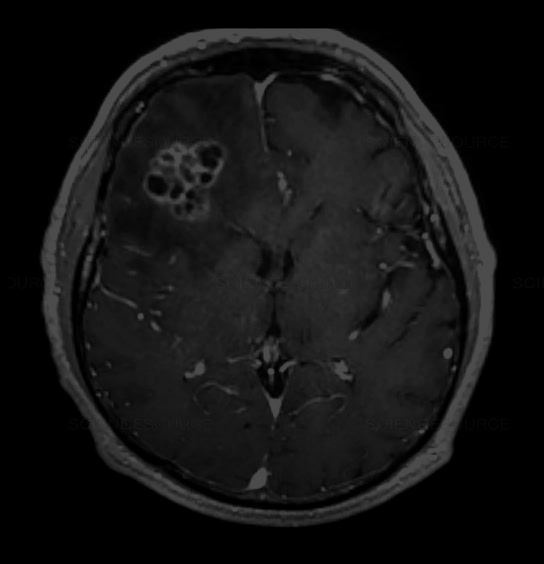
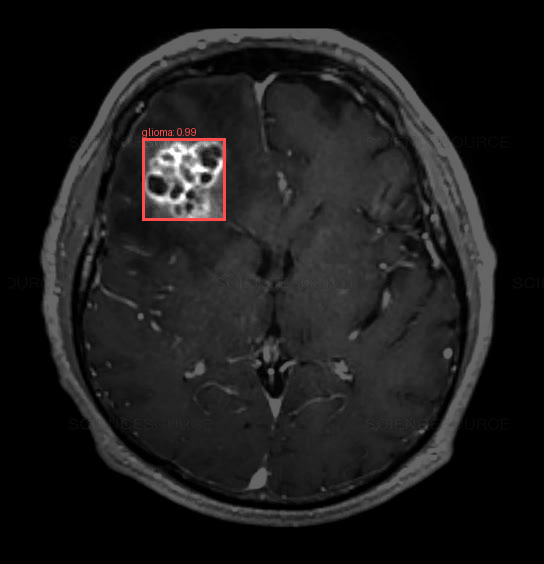
built a UI

diff --git a/UI.py b/UI.py
@@ -1,0 +1,190 @@
+import os
+import tkinter as tk
+from tkinter import ttk, filedialog
+import torch
+import torchvision
+from torchvision.transforms import functional as F
+from PIL import Image, ImageDraw, ImageTk
+
+# --- CONFIGURATION & MODEL SETUP ---
+MODEL_PATH = "models/bt_fasterrcnn_best.pth"
+NUM_CLASSES = 4
+CLASS_NAMES = {0: "background", 1: "glioma", 2: "meningioma", 3: "pituitary"}
+COLOR_MAP = {
+    1: "#FF4D4D",  # Red - Glioma
+    2: "#2ECC71",  # Green - Meningioma
+    3: "#3498DB"   # Blue - Pituitary
+}
+THRESHOLD = 0.5
+
+def load_model(checkpoint_path, num_classes):
+    device = 'cuda' if torch.cuda.is_available() else 'cpu'
+    model = torchvision.models.detection.fasterrcnn_resnet50_fpn(weights=None, min_size=480, max_size=640)
+    in_features = model.roi_heads.box_predictor.cls_score.in_features
+    model.roi_heads.box_predictor = torchvision.models.detection.faster_rcnn.FastRCNNPredictor(in_features, num_classes)
+    
+    if os.path.exists(checkpoint_path):
+        model.load_state_dict(torch.load(checkpoint_path, map_location=device))
+        print(f"Loaded weights from {checkpoint_path}")
+    else:
+        print(f"Warning: {checkpoint_path} not found!")
+        
+    model.to(device)
+    model.eval()
+    return model
+
+# Initialize model
+device = 'cuda' if torch.cuda.is_available() else 'cpu'
+model = load_model(MODEL_PATH, NUM_CLASSES)
+
+# --- GUI APPLICATION CLASS ---
+class BrainTumorDetectorApp:
+    def __init__(self, root):
+        self.root = root
+        self.root.title("Brain Tumor Detection Studio")
+        self.root.geometry("1100x700")
+        self.root.configure(bg="#1E1E2E")  # Dark theme background
+
+        self.setup_styles()
+        self.create_widgets()
+
+    def setup_styles(self):
+        self.style = ttk.Style()
+        self.style.theme_use('clam')
+        
+        # Configure modern dark mode styles
+        self.style.configure("TFrame", background="#1E1E2E")
+        self.style.configure("Card.TFrame", background="#2B2B3B", relief="flat")
+        self.style.configure("TLabel", background="#1E1E2E", foreground="#D9E0EE", font=("Segoe UI", 10))
+        self.style.configure("Header.TLabel", font=("Segoe UI", 16, "bold"), foreground="#F5E0DC", background="#1E1E2E")
+        self.style.configure("SubHeader.TLabel", font=("Segoe UI", 11, "bold"), foreground="#CBA6F7", background="#2B2B3B")
+        self.style.configure("Status.TLabel", font=("Segoe UI", 10, "italic"), foreground="#A6ADC8", background="#1E1E2E")
+        
+        self.style.configure("Accent.TButton", 
+                             font=("Segoe UI", 10, "bold"), 
+                             background="#89B4FA", 
+                             foreground="#11111B", 
+                             borderwidth=0, 
+                             padding=8)
+        self.style.map("Accent.TButton", background=[("active", "#B4BEFE")])
+
+    def create_widgets(self):
+        # Header Area
+        header_frame = ttk.Frame(self.root)
+        header_frame.pack(fill="x", padx=20, pady=15)
+        
+        title_label = ttk.Label(header_frame, text="Brain Tumor Detection Inference", style="Header.TLabel")
+        title_label.pack(side="left")
+
+        btn_select = ttk.Button(header_frame, text="Select Image", style="Accent.TButton", command=self.process_image)
+        btn_select.pack(side="right")
+
+        # Main Workspace Split Pane
+        workspace = ttk.Frame(self.root)
+        workspace.pack(fill="both", expand=True, padx=20, pady=10)
+
+        # Left Panel (Original Input)
+        left_card = ttk.Frame(workspace, style="Card.TFrame")
+        left_card.pack(side="left", fill="both", expand=True, padx=(0, 10))
+
+        lbl_left_title = ttk.Label(left_card, text="Original Image", style="SubHeader.TLabel")
+        lbl_left_title.pack(anchor="w", padx=15, pady=10)
+
+        self.left_canvas = tk.Label(left_card, bg="#2B2B3B", text="No image selected", fg="#6C7086")
+        self.left_canvas.pack(fill="both", expand=True, padx=15, pady=(0, 15))
+
+        # Right Panel (Detection Result)
+        right_card = ttk.Frame(workspace, style="Card.TFrame")
+        right_card.pack(side="right", fill="both", expand=True, padx=(10, 0))
+
+        lbl_right_title = ttk.Label(right_card, text="Detection Output", style="SubHeader.TLabel")
+        lbl_right_title.pack(anchor="w", padx=15, pady=10)
+
+        self.right_canvas = tk.Label(right_card, bg="#2B2B3B", text="Output will appear here", fg="#6C7086")
+        self.right_canvas.pack(fill="both", expand=True, padx=15, pady=(0, 15))
+
+        # Status Bar Footer
+        self.status_var = tk.StringVar(value="Ready. Click 'Select Image' to choose an MRI scan.")
+        status_bar = ttk.Label(self.root, textvariable=self.status_var, style="Status.TLabel")
+        status_bar.pack(side="bottom", fill="x", padx=20, pady=10)
+
+    def process_image(self):
+        # Open file dialog starting in the images folder
+        initial_dir = "images" if os.path.exists("images") else "."
+        file_path = filedialog.askopenfilename(
+            initialdir=initial_dir,
+            title="Select MRI Image",
+            filetypes=[("Image Files", "*.jpg *.png *.jpeg *.bmp")]
+        )
+
+        if not file_path:
+            return
+
+        self.status_var.set("Running model inference...")
+        self.root.update_idletasks()
+
+        # Load & Run Inference
+        raw_img = Image.open(file_path).convert("RGB")
+        img_tensor = F.to_tensor(raw_img).unsqueeze(0).to(device)
+
+        with torch.no_grad():
+            prediction = model(img_tensor)[0]
+
+        # Draw Predictions
+        faded_img = Image.eval(raw_img, lambda x: int(x * 0.4))
+        draw = ImageDraw.Draw(faded_img)
+
+        detected_count = 0
+        for i in range(len(prediction['boxes'])):
+            score = prediction['scores'][i].item()
+            if score > THRESHOLD:
+                detected_count += 1
+                box = prediction['boxes'][i].cpu().numpy().astype(int)
+                label_id = prediction['labels'][i].item()
+                
+                class_name = CLASS_NAMES.get(label_id, "unknown")
+                color = COLOR_MAP.get(label_id, "#FFFFFF")
+                
+                crop_box = (box[0], box[1], box[2], box[3])
+                faded_img.paste(raw_img.crop(crop_box), crop_box)
+                
+                draw.rectangle(crop_box, outline=color, width=3)
+                draw.text((box[0], max(0, box[1] - 12)), f"{class_name}: {score:.2f}", fill=color)
+
+        # Save Result
+        os.makedirs("results", exist_ok=True)
+        img_name = os.path.splitext(os.path.basename(file_path))[0]
+        output_path = f"results/detection_result_{img_name}.png"
+        faded_img.save(output_path)
+
+        # Render Images in UI
+        self.display_image(raw_img, self.left_canvas)
+        self.display_image(faded_img, self.right_canvas)
+
+        self.status_var.set(f"Done! Detected {detected_count} tumor(s). Saved to: {output_path}")
+
+    def display_image(self, pil_img, target_label):
+        # Resize image dynamically to fit UI panels cleanly
+        canvas_width = target_label.winfo_width() or 450
+        canvas_height = target_label.winfo_height() or 500
+
+        img_ratio = pil_img.width / pil_img.height
+        target_ratio = canvas_width / canvas_height
+
+        if img_ratio > target_ratio:
+            new_w = canvas_width
+            new_h = int(canvas_width / img_ratio)
+        else:
+            new_h = canvas_height
+            new_w = int(canvas_height * img_ratio)
+
+        resized_img = pil_img.resize((max(1, new_w), max(1, new_h)), Image.Resampling.LANCZOS)
+        tk_img = ImageTk.PhotoImage(resized_img)
+
+        target_label.config(image=tk_img, text="")
+        target_label.image = tk_img  # Prevent garbage collection
+
+if __name__ == "__main__":
+    root = tk.Tk()
+    app = BrainTumorDetectorApp(root)
+    root.mainloop()
